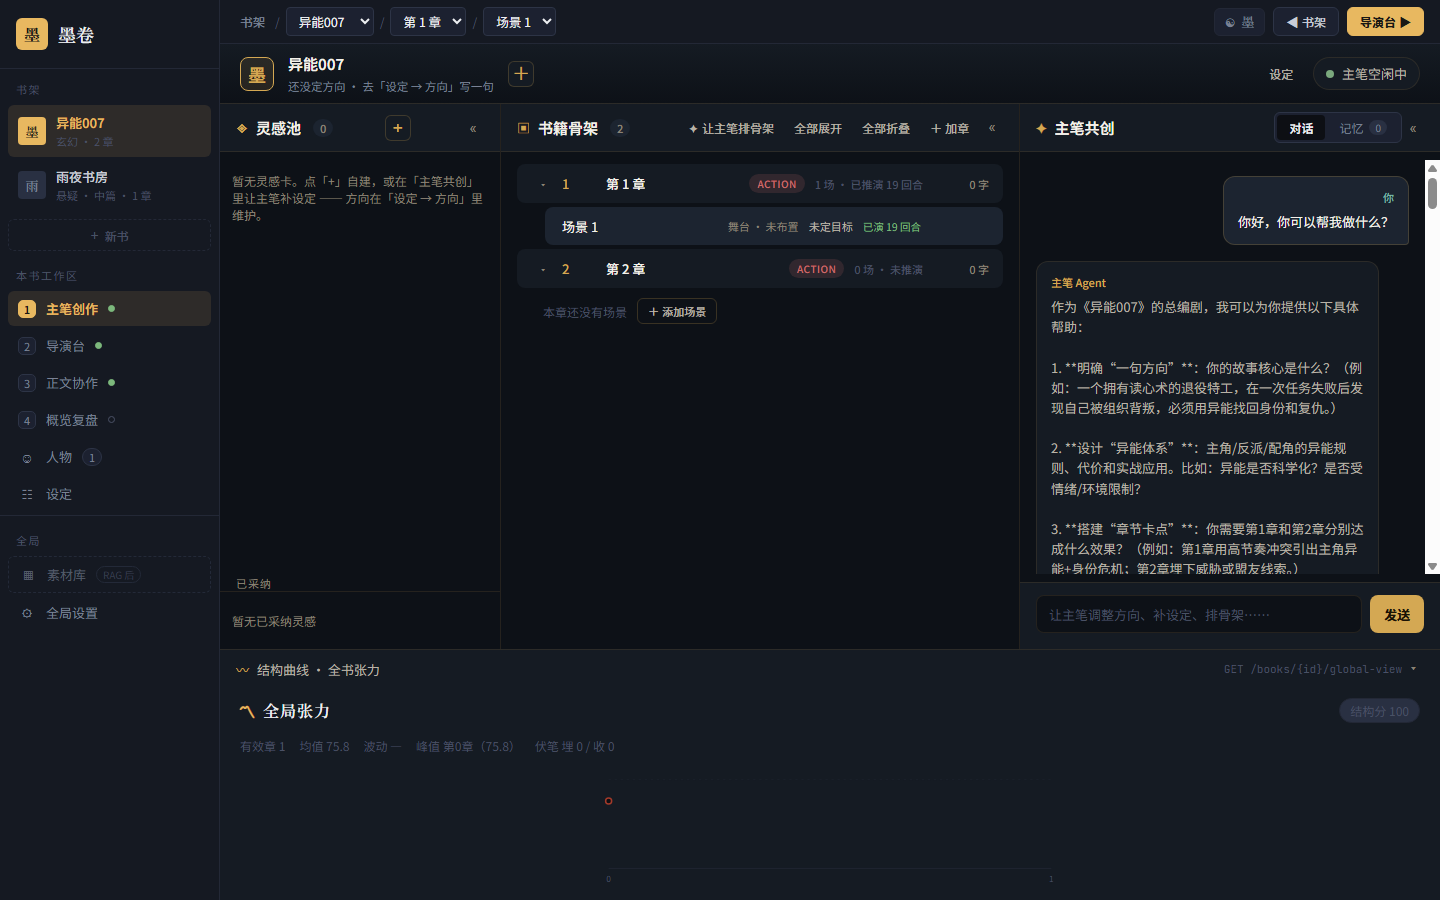
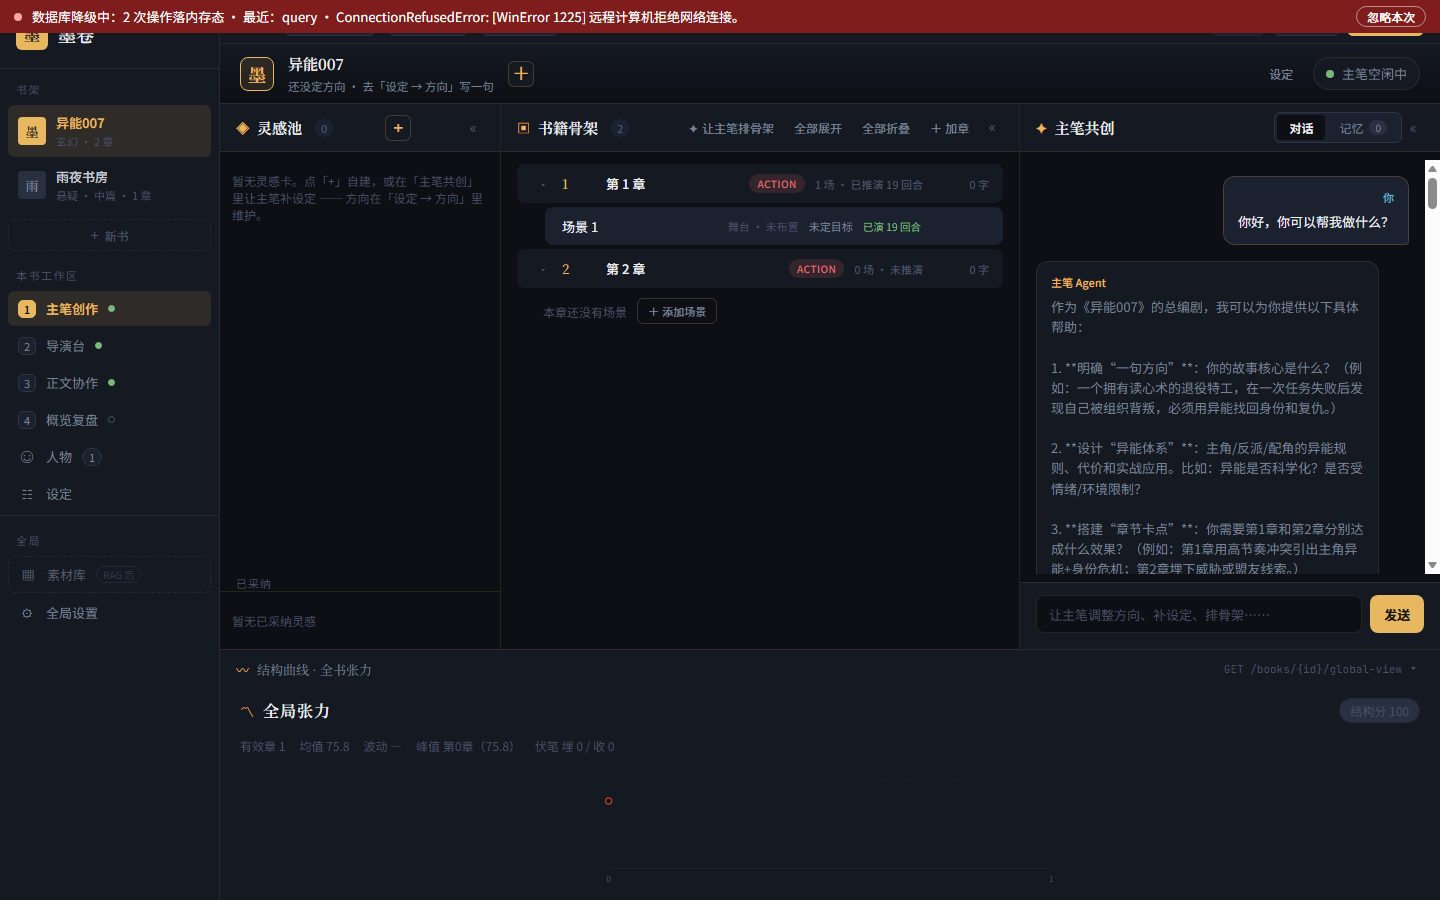
feat(ui): P3-3 主笔页色板统一（--maestro-* 全量别名到 tokens）+ 修 B26 + 后端地址可配置
- maestro.css：34 条硬编码 hex/rgba 改为 var(--bg-*/--text-*/--accent-*) + color-mix 派生；删 2 条无使用处的 canvas 死变量
- B26：补从未定义的 --font-sans/--font-serif（tokens.css）与 --maestro-radius/--maestro-on-gold（maestro.css 纸墨两块）
- index.html/types.ts/.env.example：VITE_API_BASE 注入 window.API_BASE，占位符视为未设置回退 8000（8000 被占用时指 8001）
- 文档：Wiki §0 v1.27 + §7 B26；UI重构方案 §6 P3-3 标已落地
- 验收：pytest 197 passed · tsc 0 · 纸墨双主题主笔页截图替换基线

diff --git a/frontend/src/styles/maestro.css b/frontend/src/styles/maestro.css
@@ -5,50 +5,51 @@
    主题：--maestro-* 挂 [data-theme]，墨(深)/纸(浅)两套，与 tokens.css 一致。
    ========================================================================== */
 
-/* 墨模式（深色，与 tokens.css 墨色系协调） */
+/* 墨模式：P3-3 起**不再是私有色板**，全部别名到 tokens.css（同屏只有一套色板） */
 [data-theme="ink"] {
-  --maestro-bg: #0d1117;
-  --maestro-surface: #151b23;
-  --maestro-surface-2: #1c2430;
-  --maestro-surface-3: #232d3b;
-  --maestro-border: rgba(212, 168, 83, 0.12);
-  --maestro-border-strong: rgba(212, 168, 83, 0.22);
-  --maestro-text: #f4f1ea;
-  --maestro-text-2: #b8b2a6;
-  --maestro-text-3: #8a8276;
-  --maestro-gold: #d4a853;
-  --maestro-gold-soft: rgba(212, 168, 83, 0.12);
-  --maestro-gold-glow: rgba(212, 168, 83, 0.25);
-  --maestro-cyan: #7db9a8;
-  --maestro-cyan-soft: rgba(125, 185, 168, 0.12);
-  --maestro-red: #c96b6b;
-  --maestro-green: #7aa87d;
-  --maestro-shadow: 0 10px 30px rgba(0, 0, 0, 0.35);
-  --maestro-canvas-grid: rgba(212, 168, 83, 0.08);
-  --maestro-canvas-dot-stroke: rgba(13, 17, 23, 0.9);
+  --maestro-bg: var(--bg-page);
+  --maestro-surface: var(--bg-panel);
+  --maestro-surface-2: var(--bg-elevated);
+  --maestro-surface-3: var(--bg-surface);
+  --maestro-border: color-mix(in srgb, var(--accent-primary) 12%, transparent);
+  --maestro-border-strong: color-mix(in srgb, var(--accent-primary) 22%, transparent);
+  --maestro-text: var(--text-highlight);
+  --maestro-text-2: var(--text-secondary);
+  --maestro-text-3: var(--text-muted);
+  --maestro-gold: var(--accent-primary);
+  --maestro-gold-soft: var(--accent-primary-light);
+  --maestro-gold-glow: color-mix(in srgb, var(--accent-primary) 25%, transparent);
+  --maestro-cyan: var(--accent-cyan);
+  --maestro-cyan-soft: var(--accent-cyan-light);
+  --maestro-red: var(--accent-red);
+  --maestro-green: var(--accent-green);
+  --maestro-shadow: var(--shadow-lg);
+  /* 此前**从未定义**的变量（B26）：圆角 3 处失效、主笔按钮文字色只能靠 fallback */
+  --maestro-radius: var(--radius-lg);
+  --maestro-on-gold: var(--on-accent);
 }
 
-/* 纸模式（浅色，与 tokens.css 宣纸色系协调） */
+/* 纸模式：同样别名到 tokens.css（主色 = 朱砂红，与其余页面一致） */
 [data-theme="paper"] {
-  --maestro-bg: #f7f1e2;
-  --maestro-surface: #fdfaf0;
-  --maestro-surface-2: #efe7d2;
-  --maestro-surface-3: #e6dcc0;
-  --maestro-border: rgba(199, 125, 35, 0.14);
-  --maestro-border-strong: rgba(199, 125, 35, 0.28);
-  --maestro-text: #2b2925;
-  --maestro-text-2: #6b6458;
-  --maestro-text-3: #a89e8a;
-  --maestro-gold: #c77d23;
-  --maestro-gold-soft: rgba(199, 125, 35, 0.10);
-  --maestro-gold-glow: rgba(199, 125, 35, 0.20);
-  --maestro-cyan: #2e7d8f;
-  --maestro-cyan-soft: rgba(46, 125, 143, 0.10);
-  --maestro-red: #b5452e;
-  --maestro-green: #3d8b5e;
-  --maestro-shadow: 0 10px 30px rgba(43, 41, 37, 0.10);
-  --maestro-canvas-grid: rgba(199, 125, 35, 0.10);
-  --maestro-canvas-dot-stroke: rgba(43, 41, 37, 0.85);
+  --maestro-bg: var(--bg-page);
+  --maestro-surface: var(--bg-panel);
+  --maestro-surface-2: var(--bg-elevated);
+  --maestro-surface-3: var(--bg-surface);
+  --maestro-border: color-mix(in srgb, var(--accent-primary) 14%, transparent);
+  --maestro-border-strong: color-mix(in srgb, var(--accent-primary) 28%, transparent);
+  --maestro-text: var(--text-highlight);
+  --maestro-text-2: var(--text-secondary);
+  --maestro-text-3: var(--text-muted);
+  --maestro-gold: var(--accent-primary);
+  --maestro-gold-soft: var(--accent-primary-light);
+  --maestro-gold-glow: color-mix(in srgb, var(--accent-primary) 20%, transparent);
+  --maestro-cyan: var(--accent-cyan);
+  --maestro-cyan-soft: var(--accent-cyan-light);
+  --maestro-red: var(--accent-red);
+  --maestro-green: var(--accent-green);
+  --maestro-shadow: var(--shadow-lg);
+  --maestro-radius: var(--radius-lg);
+  --maestro-on-gold: var(--on-accent);
 }
 
 .maestro-workbench {
@@ -471,7 +472,7 @@
 
 .maestro-workbench .card-icon.plot { background: var(--maestro-gold-soft); }
 .maestro-workbench .card-icon.character { background: var(--maestro-cyan-soft); }
-.maestro-workbench .card-icon.world { background: color-mix(in srgb, #a06ac4 14%, transparent); }
+.maestro-workbench .card-icon.world { background: color-mix(in srgb, var(--accent-blue) 14%, transparent); }
 
 .maestro-workbench .card-title-wrap {
   flex: 1;

diff --git a/frontend/src/types/types.ts b/frontend/src/types/types.ts
@@ -63,6 +63,8 @@ export const CHANNEL_CLS: Record<BeliefChannel, string> = {
 };
 
 // 用 IPv4 字面量直连后端，避免 localhost→IPv6 连不上（后端绑定 127.0.0.1）。
-// 可用 window.API_BASE 覆盖（如指向其他后端地址）。
+// 覆盖优先级：window.API_BASE（index.html 注入 VITE_API_BASE）> 默认 8000。
+// Vite 未定义该变量时会原样保留占位符，所以把占位符也当作「未设置」。
+const rawBase = (window as unknown as { API_BASE?: string }).API_BASE;
 export const API_BASE =
-  (window as unknown as { API_BASE?: string }).API_BASE ?? 'http://127.0.0.1:8000';
+  rawBase && !rawBase.startsWith('%') ? rawBase : 'http://127.0.0.1:8000';

diff --git a/frontend/src/styles/tokens.css b/frontend/src/styles/tokens.css
@@ -16,6 +16,9 @@
   --font-ui: "Noto Sans SC", system-ui, -apple-system, "PingFang SC", "Microsoft YaHei", sans-serif;
   --font-reader: "Noto Serif SC", Georgia, "Songti SC", "SimSun", serif;
   --font-mono: "JetBrains Mono", "SF Mono", Consolas, "Courier New", monospace;
+  /* 字体族别名：--font-sans/--font-serif 是历史类名，此前**从未定义**（18 处声明静默失效，见 Wiki B26） */
+  --font-sans: var(--font-ui);
+  --font-serif: var(--font-reader);
 
   /* 间距阶（UI 重构方案 §4.1：4·8·12·16·24·32） */
   --space-1: 4px;

diff --git a/frontend/index.html b/frontend/index.html
@@ -17,6 +17,10 @@
   </head>
   <body>
     <div id="root"></div>
+    <!-- 后端地址默认 127.0.0.1:8000；被别的项目占用时用 frontend/.env.local 的 VITE_API_BASE 覆盖 -->
+    <script>
+      window.API_BASE = '%VITE_API_BASE%';
+    </script>
     <script type="module" src="/src/main.tsx"></script>
   </body>
 </html>

diff --git a/docs/代码导航与Bug追踪Wiki.md b/docs/代码导航与Bug追踪Wiki.md
@@ -9,6 +9,7 @@
 
 | 版本         | 日期             | 变更摘要                                                                                                                                                                                                                                                                                                                                                                                                                                                                        | 作者            |
 | ---------- | -------------- | --------------------------------------------------------------------------------------------------------------------------------------------------------------------------------------------------------------------------------------------------------------------------------------------------------------------------------------------------------------------------------------------------------------------------------------------------------------------------- | ------------- |
+| **v1.27**  | 2026-10-11     | ★★**P3-3：主笔页色板统一（UI 重构方案 §6 P3-3 落地）+ 后端地址可配置（8000 被占用的逃生口）**—— ①`maestro.css` 的 `--maestro-*` 私有色板（纸墨各 19 条硬编码 hex/rgba，如 `#0d1117`/`#d4a853`/`#c77d23`）**全部改为别名到 `tokens.css`**（`var(--bg-*)`/`var(--text-*)`/`var(--accent-*)` + `color-mix` 派生边框/辉光），同屏只有一套色板；`.card-icon.world` 的 `#a06ac4` 改用 `var(--accent-blue)`；②**修 B26**：`--font-sans`/`--font-serif` 从未定义（18 处声明静默失效）→ `tokens.css` 补别名指向 `--font-ui`/`--font-reader`；顺带补上同样从未定义的 `--maestro-radius`（3 处圆角失效）与 `--maestro-on-gold`（按钮文字色靠 fallback）；③**清死代码**：`--maestro-canvas-grid`/`--maestro-canvas-dot-stroke` 自 P1 删假张力曲线后无任何使用处，删除；④**后端地址可配置**：`index.html` 注入 `window.API_BASE = '%VITE_API_BASE%'`，`types.ts` 把 Vite 未替换的占位符视为未设置（回退 8000），新增 `frontend/.env.example`（复制为 `.env.local` 即可指向 8001，解决 8000 被其他项目占用）。验收：`pytest 197 passed` · `tsc --noEmit` 0 · Edge headless 纸墨双主题截图主笔页（`docs/mockups/p3/{ink,paper}/02-maestro-new.png`，主色墨=鎏金/纸=朱砂，与其余页面一致） | 主笔 Agent |
 | **v1.26**  | 2026-10-04     | ★★**P3-1：token 补全 + 正文区渐变（UI 重构方案 §4.1 落地）+ 清掉两本坏书**—— ①`tokens.css` 补齐 §4.1 里一直缺失的 token：`--page-grad` / `--stage-grad` / `--stage-base` / `--panel-trans`（纸墨各一套）+ 间距阶 `--space-1..6` + 字号阶 `--text-xs..xl` + 状态色语义别名 `--accent-ok/run/warn/err`；②**实测修 B25**：`.s2-prose`（正文协作正文区）引用 `var(--stage-grad), var(--stage-base)` 而两个 token **都没定义** → 正文区 backgroundImage 计算值为 none（等于没有背景）；现墨=靛蓝径向 + `#0A0D14`、纸=朱砂径向 + `#F0E9D8`，落实已确认决策 #3「墨模式背景用渐变不纯黑」；③`.workbench` / `.reader` 写死的渐变改用 token，删掉 `[data-theme="paper"] .workbench` 主题特例（自动换肤）；④**数据清理**：删除两本中文被 GBK 转坏的 `????` 空壳书（`book-7d16f6cd`：19 伏笔 + 1 灵感卡；`book-dde34aa2`：1 章 1 场景；两本均无正文/无角色/无推演），先备份到 `backups/deleted-books-2026-10-04.sql`（目录已 gitignore），现存 2 本书；⑤**兜底**：记忆里的书被删掉后自动回落第一本。验收：token 探针纸墨两套全部非空（原来 4 个为空）· `tsc --noEmit` 0 · `vite build` OK · headless 实测「localStorage 指向已删书 → 落到异能007、侧栏 2 本、URL 同步、无异常」· 双主题截图基线 `docs/mockups/p3/{ink,paper}/`（8 页 × 纸墨） · tag v1.25/v1.26 | 主笔 Agent |
 | **v1.25**  | 2026-10-04     | ★★**修 B24：书/章/场景上下文与路由打架（用户报「选不了、选了卡住、不知道是哪本书的」）**—— ①**单一真相源**：导演台/人物/概览不再各自 `useState(bookId)`，全部改读 `WorkspaceContext`（实测出现过「上下文条=雨夜书房、页内=异能007」）；②**换书=用户意图优先**：`setBook` 记 `userPickedBookRef` + 清 URL 里旧 scene/chapter + 深链页退回入口，场景反查不得把用户选的书拽回去（原来「选了就弹回旧书」）；③**写 URL 必须用实时地址**（`window.location`，不是 render 期 `location`）：React Router 的 location 提交会晚于同一次 effect flush 里的其它 state 更新 → 实测 SceneEntry 刚跳到 `/director/:sceneId` 又被父级写回 `/director?scene=…`，页面停在空态页（用户看到的「卡住」）；④**自写地址记账** `goTo()` + `selfUrlRef`：URL→状态的同步忽略自己刚写的地址（原来换章会被 URL 里旧 chapter 拽回第 1 章）；⑤**自动选场景加两道闸**：书树必须已换到当前书 + 只在**当前章**里挑（避免塞入旧书场景 / 跨章错位）；⑥`/director`、`/studio` 兜底页补 ContextBar（切到空章不再是死页，章还能切回来）。验收：headless Chromium(CDP) 断言 5/5 PASS（深链不串书 · 导演台换书 · 正文协作换书 · 侧栏书架换书→概览 · 空章往返）+ 刷新不丢 + tsc 0 · 截图 [docs/mockups/route-fix/](file:///e:/novel_desk-agent/docs/mockups/route-fix) | 主笔 Agent |
 | **v1.24**  | 2026-10-04     | ★★**E 批：角色在场感（只读意见卡）—— A→E 主线收官**—— ①`agents/character_voice.py`：**请本场角色就当前正文说一句**（情绪 / 心里话 / 哪句不像我 / 换成我会怎么说）；感知来源 = 角色卡（summary·腔调·底线）+ **该角色在本文里的 0-token 腔调统计**（`per_character_metrics`：平均句长·语气词）+ 与其相关的正文片段；②**边界不破**：入口是 `read`（不改正文 / 账本 / 伏笔），**角色 agent 仍不允许发起任务**（A+ 硬边界沿用）；③工具 **15 → 16**（`character.voices`），**无需新端点**（走通用 `POST /scenes/{id}/tools/{tool}` —— 工具层红利）；④前端正文协作新增「**角色**」tab（`CharacterVoices`：一键请角色说一句 + 意见卡，含 0-token 句长/语气词标注 + 只读声明）；⑤与回合内 character agent 的区别已在模块注释写明：那边读运行时 sim（视角隔离），这边读当前正文。验收：pytest **197 passed**（新增 5 项）· tsc 0 · **真 LLM 实测**：3 个角色全部返回意见，李文逐字引用并指出「他低声道：原来如此」不像陈默会这么平静（有实质洞察）· 审计可查「工具 character.voices · 发起 author」· 截图 docs/mockups/p2/25-studio-character-voices.png | 主笔 Agent |
@@ -315,6 +316,7 @@ _apply_verify_bookkeeping 第一/二段：伏笔推进 + 信念新增
 
 | #   | 状态   | 问题                                                            | 根因/证据                                                                                                                                          | 修复位置                                                                                                                                                                                                                                                                                                                                                                                                                                |
 | --- | ---- | ------------------------------------------------------------- | ---------------------------------------------------------------------------------------------------------------------------------------------- | ----------------------------------------------------------------------------------------------------------------------------------------------------------------------------------------------------------------------------------------------------------------------------------------------------------------------------------------------------------------------------------------------------------------------------------- |
+| B26 | ✅ 已修 | **CSS 变量"引用了但从未定义"批量静默失效**：①`--font-sans`/`--font-serif` 在 `maestro.css`（12 处）与 `app.css`（1 处）等被引用，但 `tokens.css` 从未定义 → 字体声明全部失效、实际落到继承字体；②`--maestro-radius`（3 处圆角）、`--maestro-on-gold`（2 处按钮文字色，仅靠 `#1a1205` fallback 撑着）同样从未定义 | P0→P3 分批落地时变量名靠"约定"引用、无编译期检查，CSS 对未定义 `var()` 静默回退（有 fallback 用 fallback、没有则整条声明失效），**不报任何错** —— 与 B25（`--stage-grad` 缺失）同一类病 | [tokens.css](file:///e:/novel_desk-agent/frontend/src/styles/tokens.css) 补 `--font-sans: var(--font-ui)` / `--font-serif: var(--font-reader)`；[maestro.css](file:///e:/novel_desk-agent/frontend/src/styles/maestro.css) 纸墨两块补 `--maestro-radius: var(--radius-lg)` / `--maestro-on-gold: var(--on-accent)`。**验证**：grep 全量 `var(--…)` 引用与定义比对，缺失 0 |
 | B25 | ✅ 已修 | **正文协作的正文区根本没有背景**：`.s2-prose` 写着 `background: var(--stage-grad), var(--stage-base)`，但这两个 token 在 `tokens.css` 里**从未定义**（探针读到空串）→ `background-image` 计算值为 `none`、`background-color` 透明，与已确认决策 #3「墨模式背景用渐变不纯黑（照搬导演台）」不符 | P0→P2 分批落地时 §4.1 的「新增 token」清单只写进方案文档，没落到 `tokens.css`；`--page-grad`/`--panel-trans` 同样缺失，`.workbench`/`.reader` 只好把渐变硬编码成主题特例（纸模式还要再写一条覆盖规则） | 在 `tokens.css` 纸墨两块里定义 `--page-grad`（顶部径向 + `--bg-page`）· `--stage-grad` · `--stage-base` · `--panel-trans`，并补 `--space-1..6` / `--text-xs..xl` / `--accent-ok\|run\|warn\|err`；`.s2-prose` 不动（引用自动生效）；`.workbench`/`.reader` 改用 token 并删掉纸模式特例。**验证**：CSS 探针（墨/纸）→ `--page-grad`/`--stage-grad`/`--panel-trans`/`--space-2`/`--text-sm`/`--accent-warn` 全部有值；`.s2-prose` 计算值墨 `radial-gradient(at 50% 30%, rgba(74,91,138,.5)…)` + `rgb(10,13,20)`、纸 `rgba(181,69,46,.07)` + `rgb(240,233,216)`；截图 docs/mockups/p3/ |
 | B24 | ✅ 已修 | **书/章/场景上下文与路由互相覆盖 → 换书「选不了 / 卡住 / 不知道是哪本书的」**：①上下文条显示「雨夜书房」而导演台页内品牌与角色栏是「异能007」；②在上下文条换书后选项**弹回原书**，换到没有场景的页面时**停在 SceneEntry 空态页**（进得去出不来）；③侧栏书架换书（默认落概览复盘）也不跟。 | 三个独立根因：**(a) 多份真相源**——`DirectorPage` 自持 `bookId/selTree`，挂载时用 navState/反查异步写入，覆盖了上下文同步（截图那条串书）；`CharactersPage`/`DashboardPage` 也各持一份；**(b) 反查反噬**——用户显式换书后，URL 深链里的旧场景触发「场景→章→书」反查，把 `bookId` 判回旧书；换书瞬间还会用**旧树**自动选场景 + 回落旧书的章（实测 URL 出现 `chapter=chapter-01`）；**(c) 写 URL 用了 render 期 location**——CDP 实测 4 次 navigation：`setBook → /director?book=X`、写 URL 效应 `→ /director?book=X&chapter=…`（旧章）、`SceneEntry → /director/scene-85bc6bfe`、**写 URL 效应又 → `/director?book=X&chapter=…&scene=…`**（用旧 pathname 判定 deep=空，把刚跳好的深链覆盖回入口页）→ 停在空态页；另：换章后 `setScene('')` 触发的 nav 会让「URL→状态」同步按 URL 里的旧 chapter 把章拽回（章怎么点都不换，实测） | ①**去重**：`DirectorPage` 的书/场景/树全部改读上下文（删掉本页 2 个 effect 与 3 个 state），`CharactersPage`/`DashboardPage` 的 `bookId/books` 同样改为上下文；②`WorkspaceContext` 新增 `userPickedBookRef`（显式换书优先，反查只在「书还没定」时跑）+ 换书时清 `scene/chapter` 并退出深链；③新增 `goTo()`：统一写地址并记 `selfUrlRef`，「URL→状态」同步跳过自己写的地址；④写 URL 的 effect 改用 `window.location` 实时地址；⑤自动选场景加 `tree.id === bookId` + 仅当前章两道闸，章回落同样加树归属闸门；⑥`App.tsx` 的 `/director`、`/studio` 兜底页补 `ContextBar`。**回归**：headless Chromium/CDP 端到端 5 项断言全 PASS + 刷新不丢 + `tsc --noEmit` 0；截图归档 [route-fix/](file:///e:/novel_desk-agent/docs/mockups/route-fix) |
 | B23 | ✅ 已修 | **`books.chapter_count` 从不更新 → 侧栏书目章节数长期失真**：实测 4 本书里 **3 本错**（`book-0938c02c` 显示 0 章 / 实际树 2 章；`book-7d16f6cd` 显示 15 章 / 实际树 **0 章**；`book-dde34aa2` 显示 0 章 / 实际 1 章；仅 `book-rain` 正确） | 字段只在建书时写入，后续建章/删章/plan commit 都不更新；前端侧栏 [Sidebar.tsx](file:///e:/novel_desk-agent/frontend/src/components/backoffice/Sidebar.tsx) 直接显示该字段 → 用户看到"玄幻 · 0 章"却在骨架里看到 2 章 | 修法（待做）：章增删/plan commit 后重算 upsert，或改为由 book tree 派生；前端在树已加载时以树为准覆盖显示。**发现路径**：UI 重构实测截图（主笔页侧栏 vs 骨架树不一致），非已知路径。**修复（P0）**：[repo.save_chapter](file:///e:/novel_desk-agent/backend/app/db/repo.py) 建章后调 `_sync_book_chapter_count`（删章路径原本就有）；存量数据用一次性脚本 [sync_book_chapter_count.py](file:///e:/novel_desk-agent/backend/scripts/sync_book_chapter_count.py) 重算（实测修正 3/4 本）；回归用例 `test_save_chapter_syncs_book_chapter_count`；侧栏改为树优先显示 |
